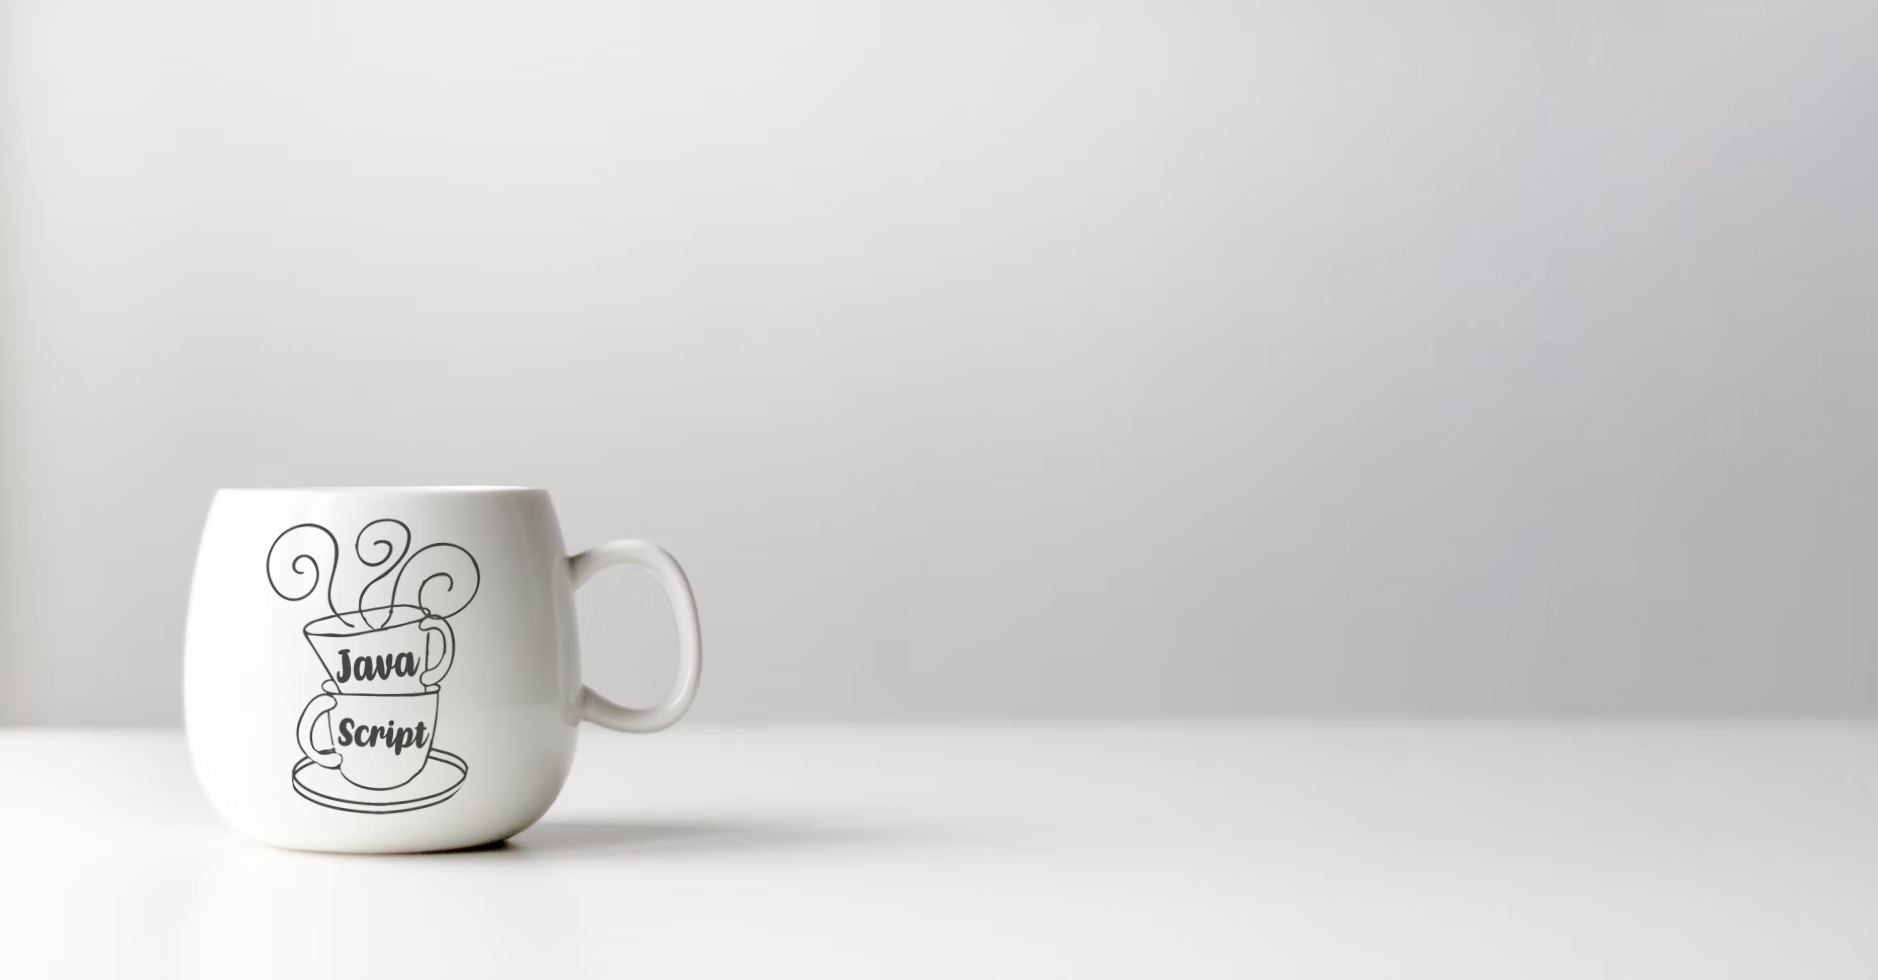
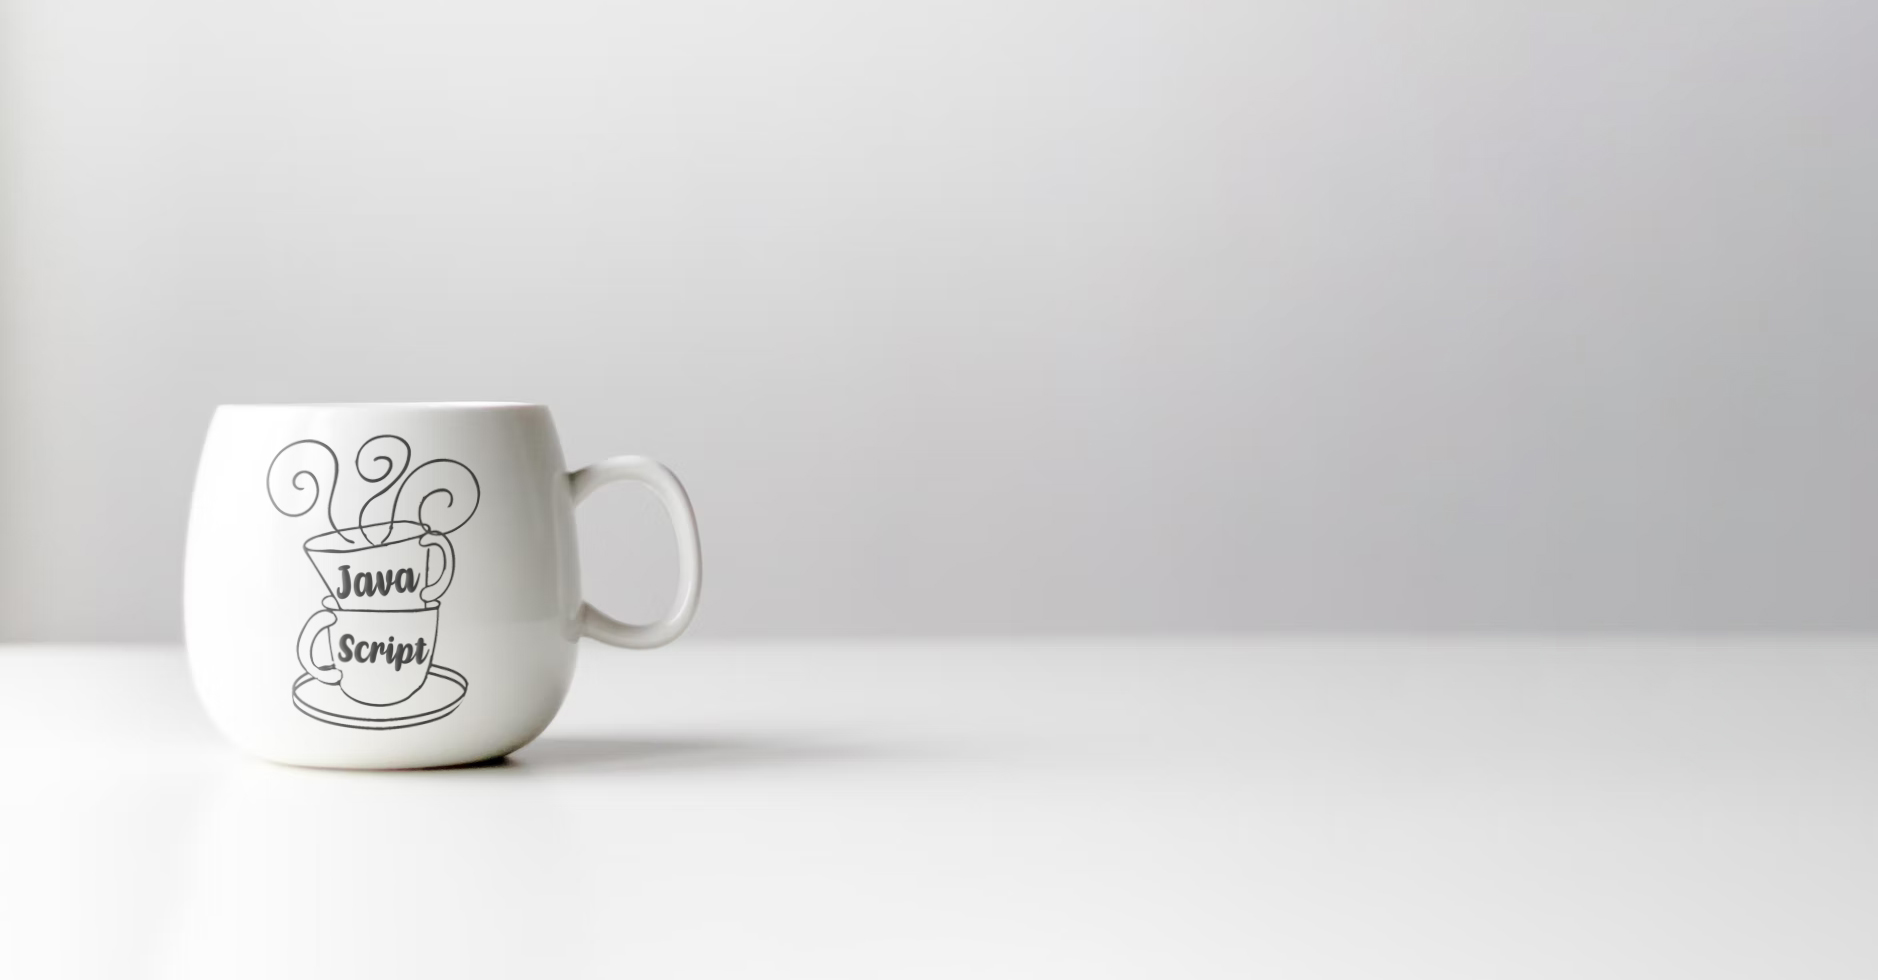
fixed background image for mobile and dash postioning

Changed region(s): [[0.0927, 0.398, 1.0, 0.8878], [0.0, 0.6429, 0.1235, 0.7653]]

diff --git a/client/src/pages/Home.js b/client/src/pages/Home.js
@@ -5,8 +5,8 @@ import { Link } from "react-router-dom";
 
 const Home = () => {
     return (
-      <div className="d-flex main-content">
-      <div className="container d-flex w-50  m-auto mt-5 align-items-center ">
+      <div className="d-flex  main-content">
+      <div className="container d-flex flex-column w-50  m-auto mt-5 align-items-center ">
       <Link to="/create"> <img className = " ui image shadow rounded medium m-5" src='./assets/images/paintingmug.jpg' alt='someone painting on aa mug'/>
       </Link>
         <Link to="/profile">

diff --git a/client/src/pages/UserDashboard.js b/client/src/pages/UserDashboard.js
@@ -17,7 +17,7 @@ const UserDashboard = () => {
 
   return (
     <div className="main-content d-flex" >
-      <div className="flex-column white m-auto ui raised segment" id="user-dash">
+      <div className="flex-column white m-auto mt-5 ui raised  segment" id="user-dash">
         <div className="container d-flex flex-column align-items-center  m-auto  ">
         {user ? (
           <div className="d-flex  ui horizontal  segments" id="userdetails">

diff --git a/client/src/styles/home.css b/client/src/styles/home.css
@@ -20,3 +20,15 @@
   background-image: url("../assets/background.jpg"); 
   background-size:auto;
 }
+
+@media (max-width:460px) {
+  .main-content {
+    height: 100vh;
+    width: 100vw;
+    background-color: white;
+    background-image: url("../assets/background-mobile.jpg"); 
+    background-size:contain;
+    background-position: top;
+    background-repeat: no-repeat;
+  }
+}

diff --git a/client/src/pages/Signup.js b/client/src/pages/Signup.js
@@ -41,6 +41,7 @@ function Signup(props) {
   };
 
   return (
+    
     <div className=" d-flex flex-column main-content ">
       <div className="container ui raised segment  mt-5 w-25">
         <Link to="/login">← Go to Login</Link>
